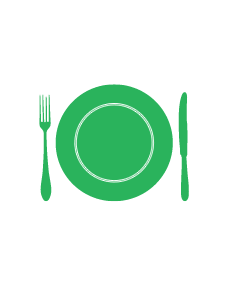
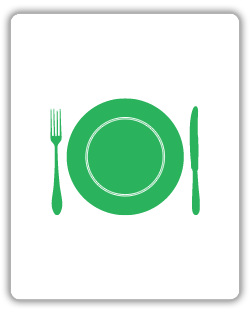
Fixed shadow for explore scrollview images

Changed region(s): [[0.0, 0.0, 0.9825, 0.979], [0.1535, 0.2797, 0.8289, 0.7273]]

diff --git a/Eric Test CTCCA Project/ExploreScrollViewPagingController.m b/Eric Test CTCCA Project/ExploreScrollViewPagingController.m
@@ -150,7 +150,7 @@
         imageView.contentMode = UIViewContentModeCenter;
         imageView.layer.shadowColor = [UIColor blackColor].CGColor;
         imageView.layer.shadowOffset = CGSizeMake(0,1);
-        imageView.layer.shadowOpacity = 0.2;
+        imageView.layer.shadowOpacity = 0.0;
         imageView.layer.shadowRadius = 10.0;
         imageView.clipsToBounds = NO;
         
